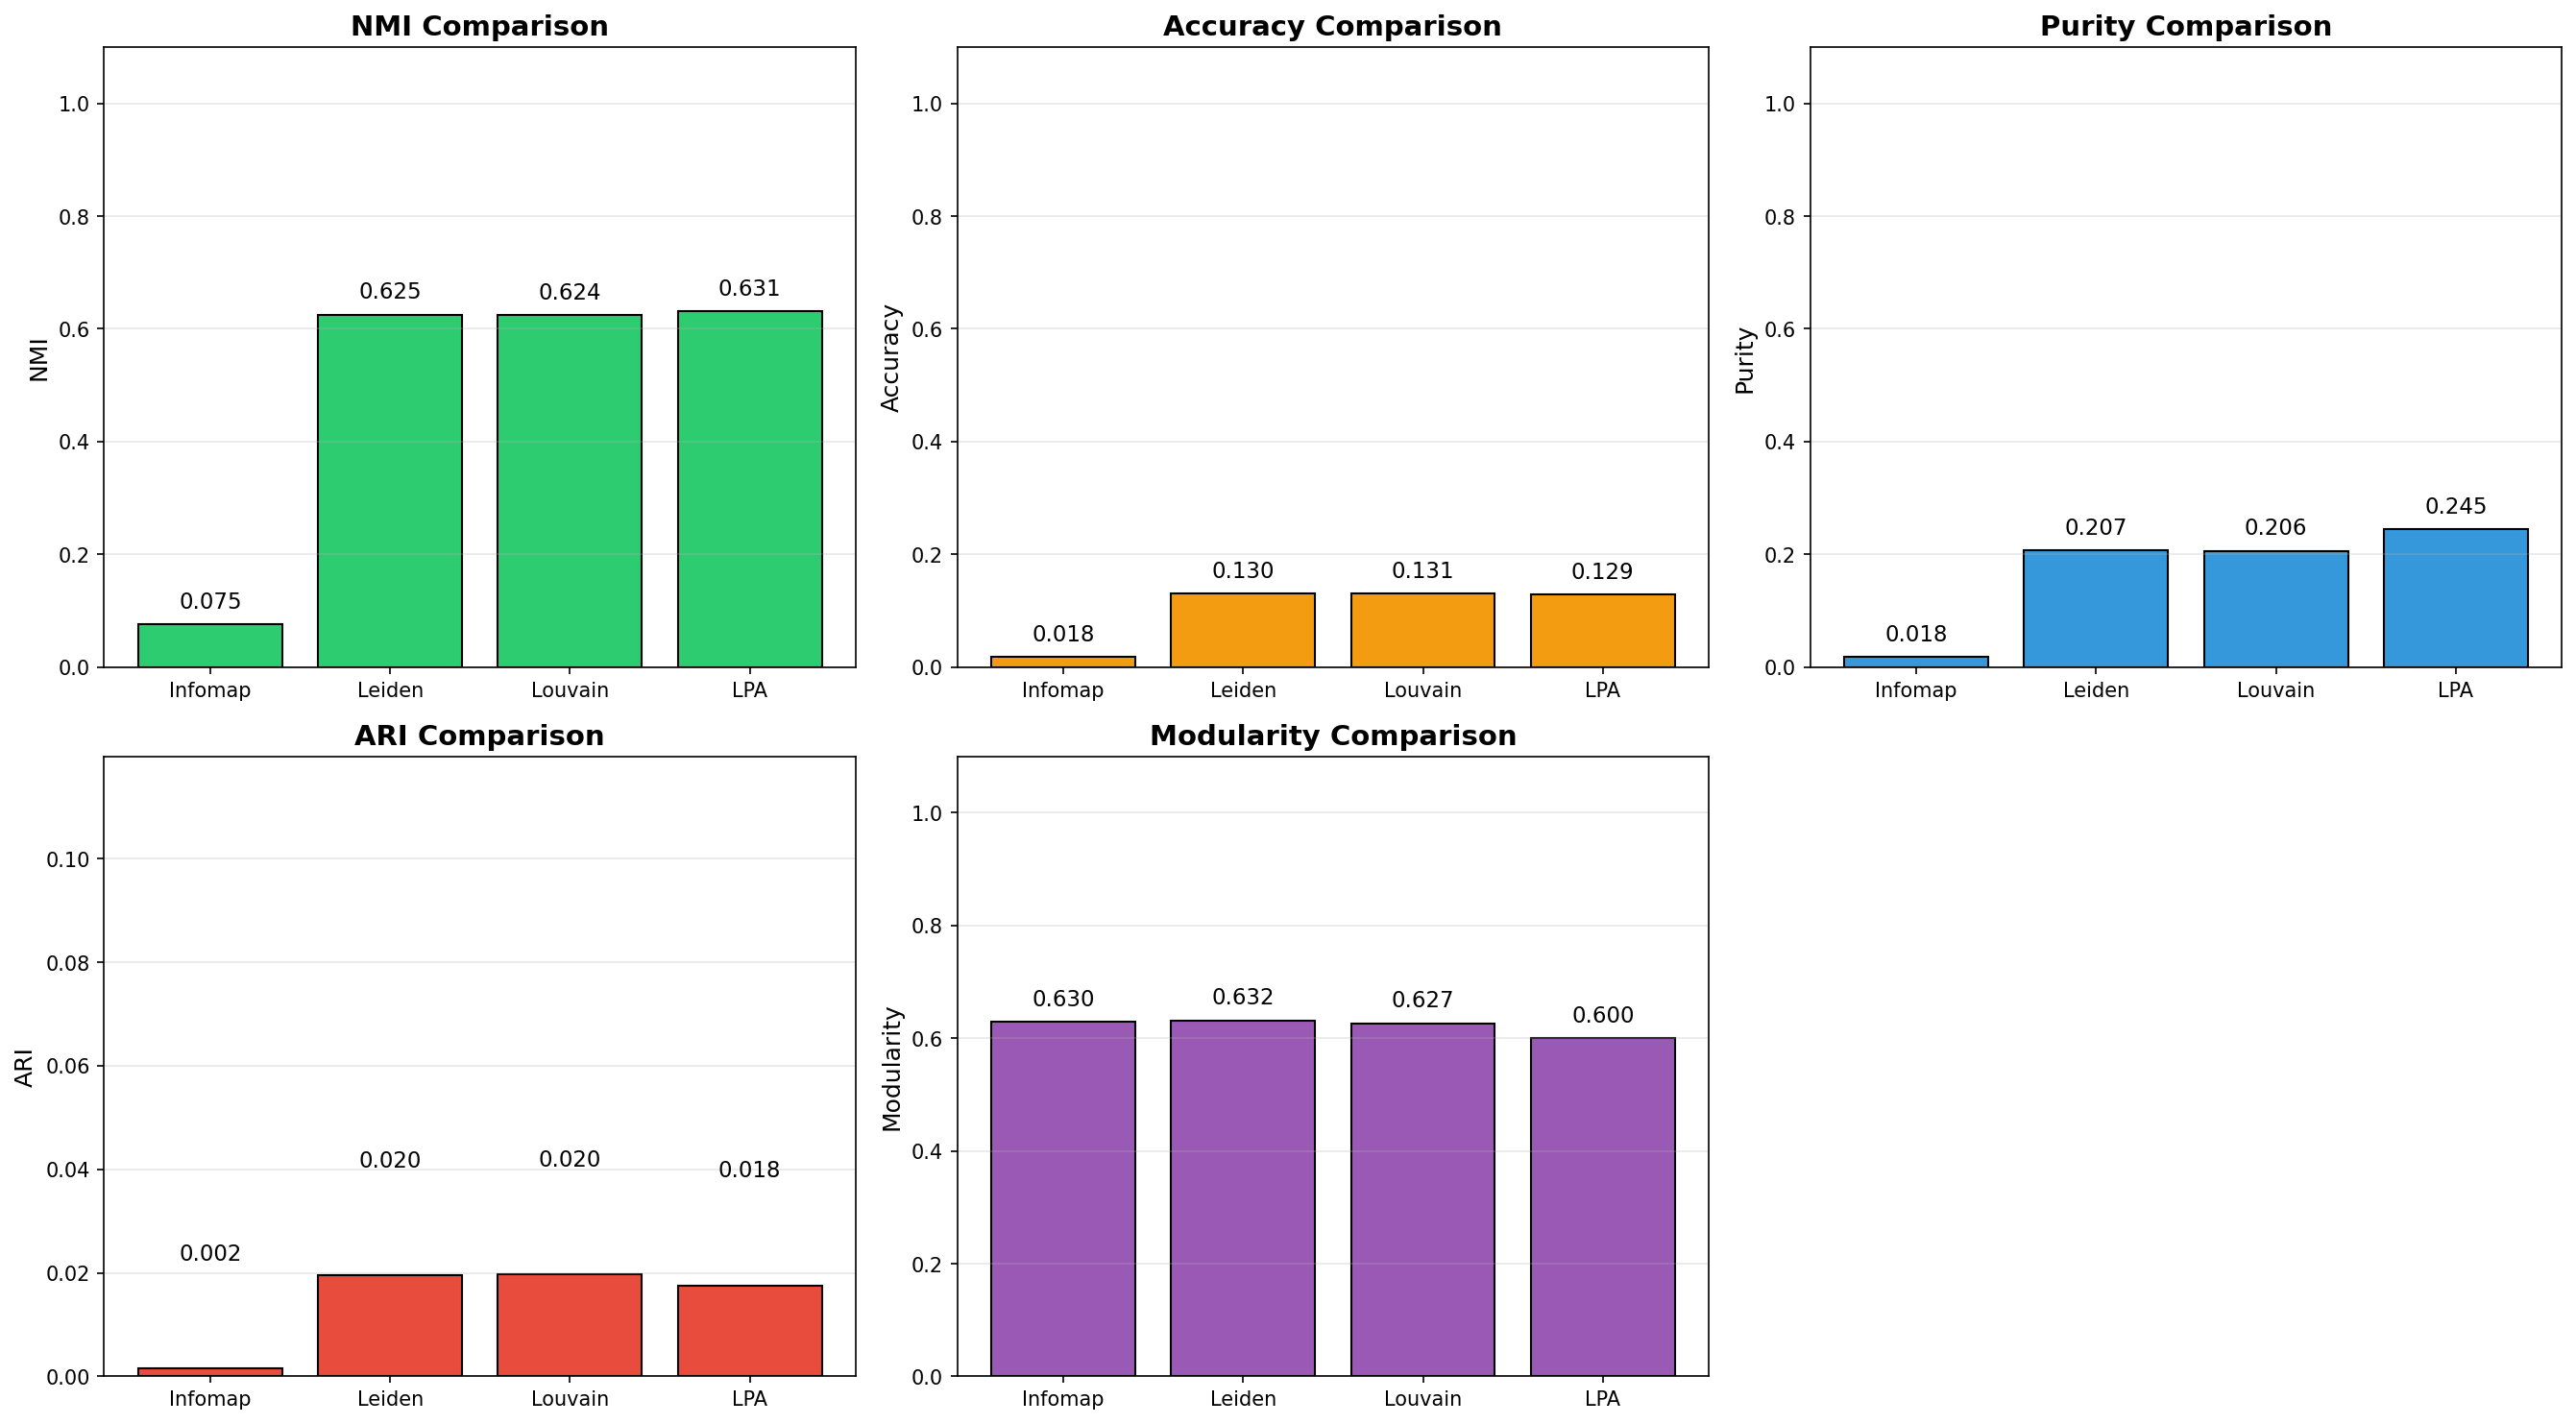
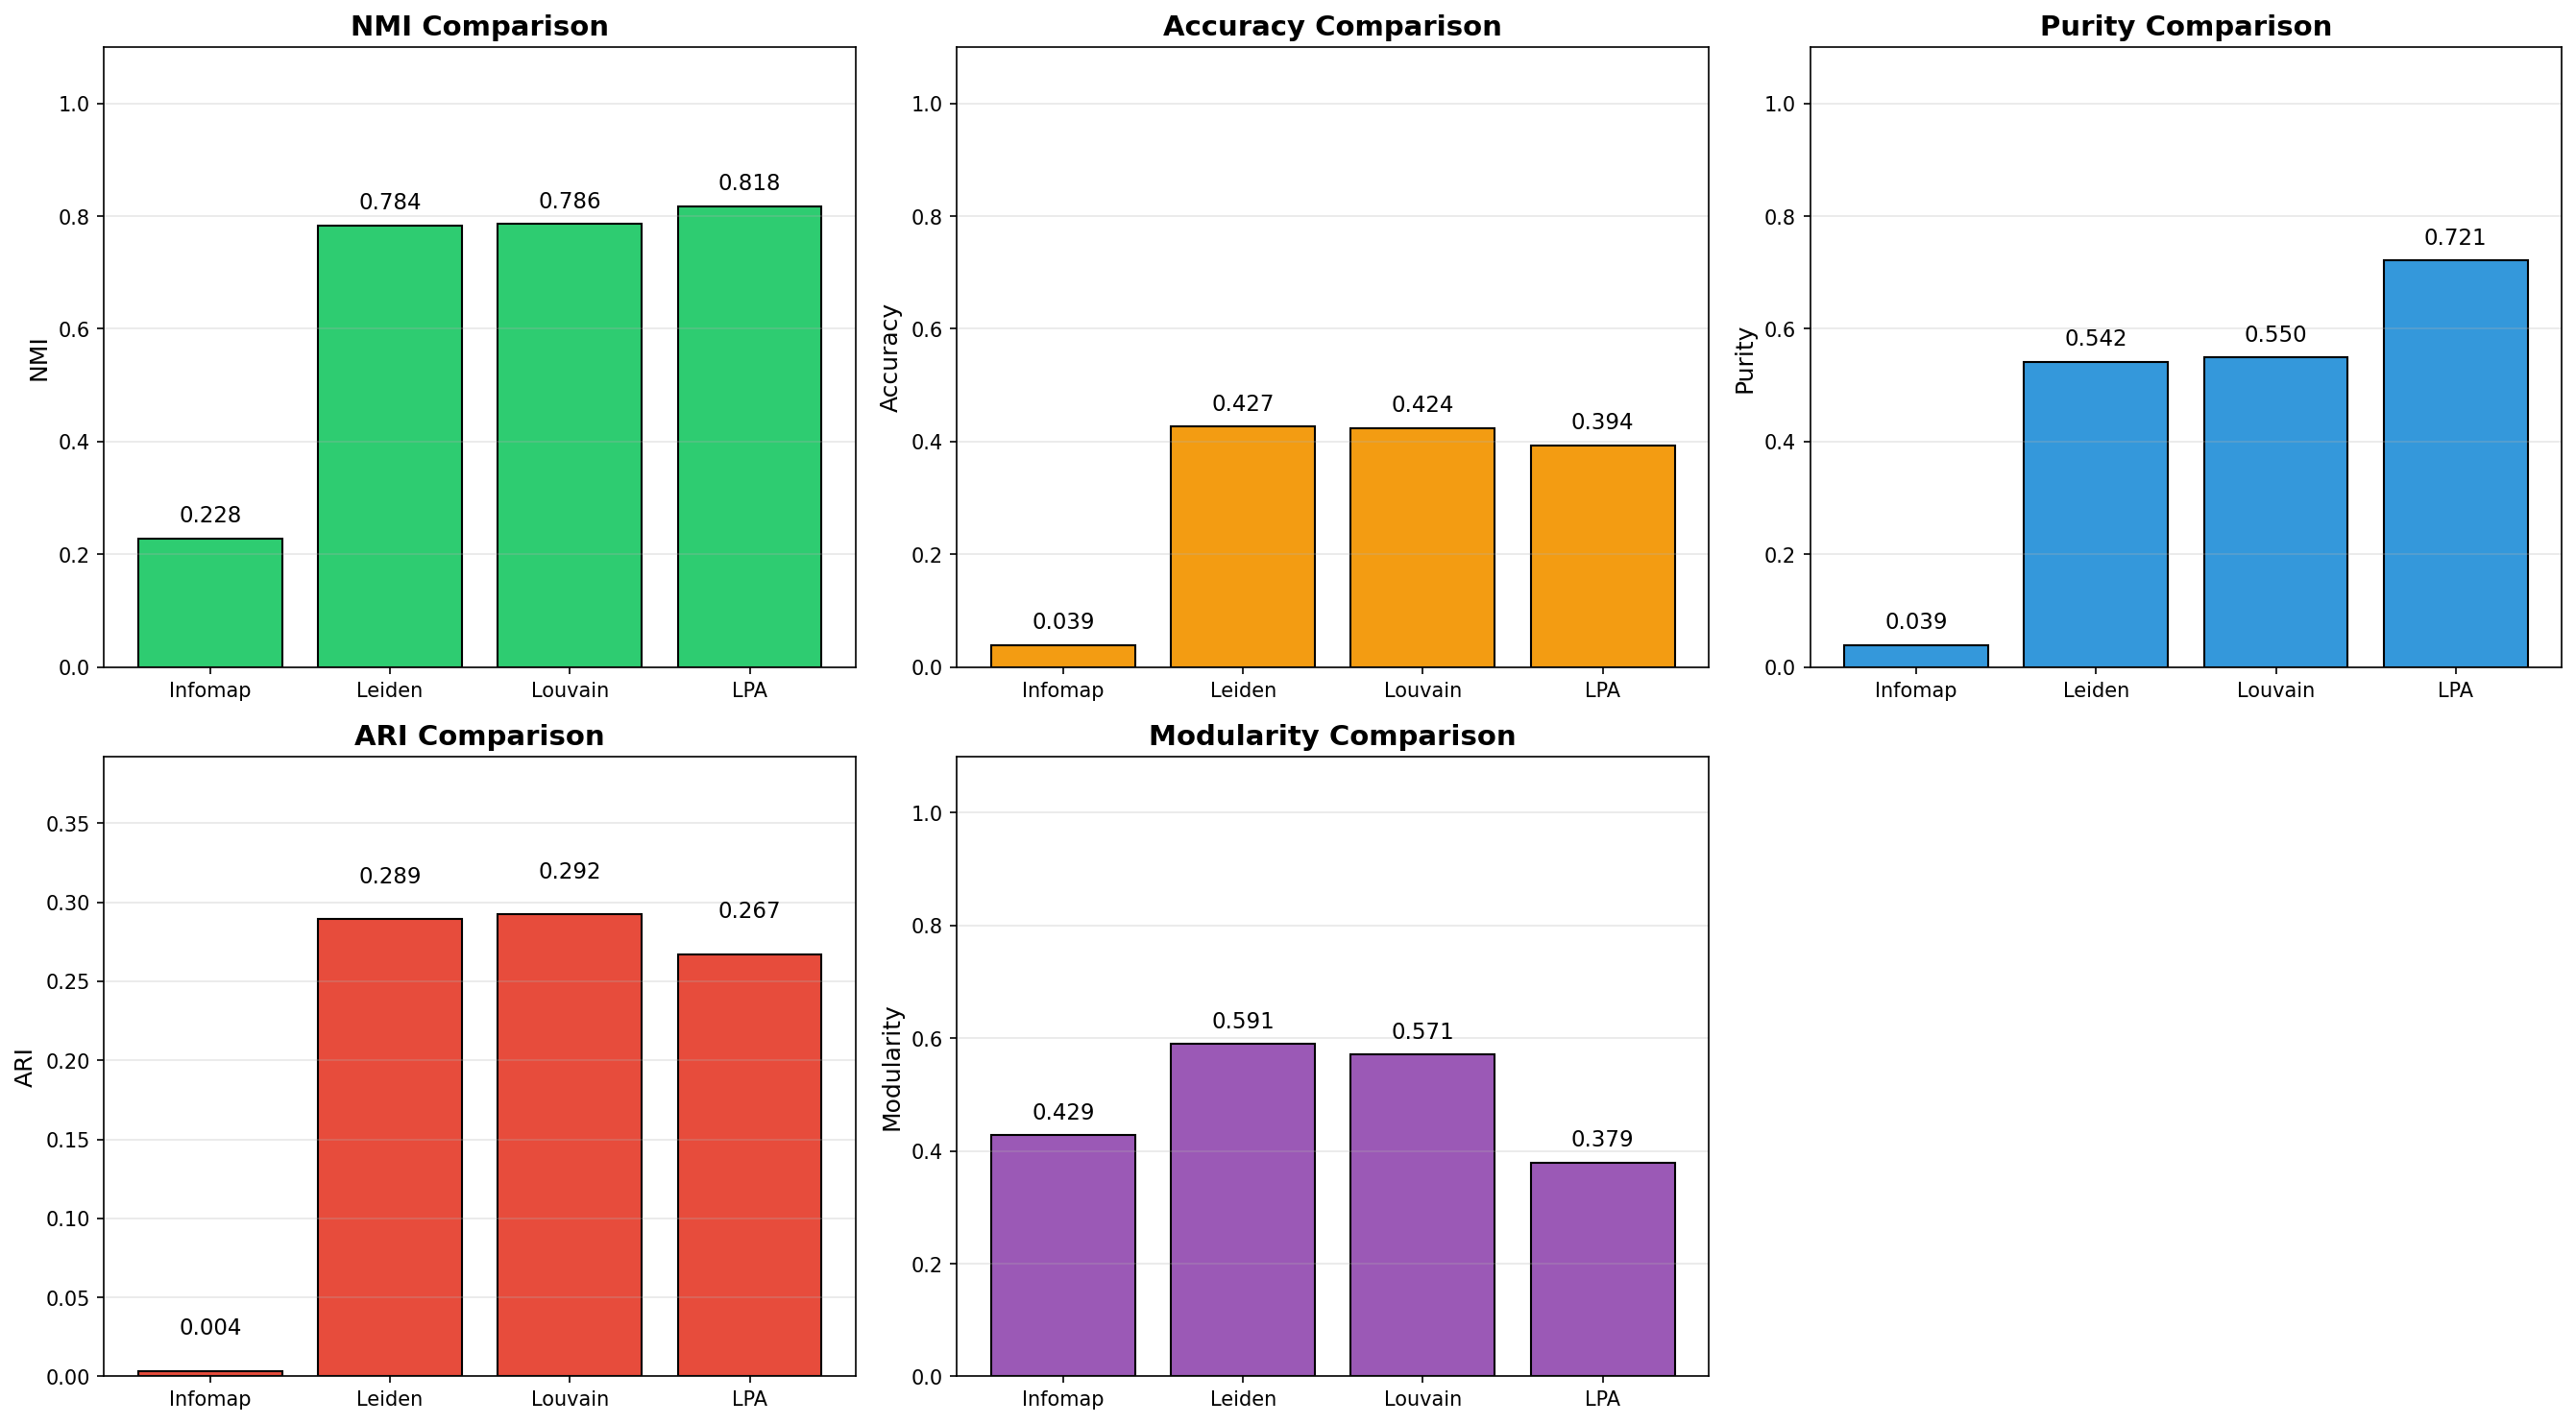
Update new model + tuning + new output

diff --git a/main.py b/main.py
@@ -197,10 +197,41 @@ def main(
         key=lambda x: evaluation_results[x]['NMI']
     )
     print(f"\nVisualizing clusters from best algorithm: {best_algo}")
-    if images is not None:
-        visualize_clusters(images, clustering_results[best_algo])
+
+    viz_images = images
+    cluster_pick_mode = 'largest'
+
+    if viz_images is None and use_feature_cache:
+        print(
+            "Đang tải lại ảnh từ parquet để vẽ clusters.png "
+            "(cùng sample_size và DATA_PATH với lúc tạo cache)..."
+        )
+        try:
+            df_viz = load_data(sample_size=sample_size)
+            viz_images, _, _ = extract_images_and_labels(df_viz, return_multilabel=True)
+            if len(viz_images) != len(features):
+                print(
+                    f"[WARN] len(images)={len(viz_images)} != len(features)={len(features)}. "
+                    "Bỏ qua clusters.png — kiểm tra --sample và DATA_PATH khớp file cache."
+                )
+                viz_images = None
+            else:
+                cluster_pick_mode = 'random'
+        except FileNotFoundError as exc:
+            print(f"[WARN] Không đọc được parquet để vẽ clusters.png: {exc}")
+            viz_images = None
+
+    if viz_images is not None:
+        visualize_clusters(
+            viz_images,
+            clustering_results[best_algo],
+            cluster_pick=cluster_pick_mode,
+        )
     else:
-        print("Skip cluster image visualization vì đang chạy từ cache (không có image bytes).")
+        print(
+            "Skip cluster image visualization "
+            "(không có bytes ảnh hoặc parquet không khớp cache)."
+        )
     
     # =========================================================
     # LOGGING KẾT QUẢ VÀO CSV

diff --git a/src/utils/visualization.py b/src/utils/visualization.py
@@ -107,7 +107,14 @@ def plot_radar_chart(results, save_path=None):
     print(f"Saved radar chart to {save_path}")
 
 
-def visualize_clusters(images, labels, n_samples=5, n_clusters=10, save_path=None):
+def visualize_clusters(
+    images,
+    labels,
+    n_samples=5,
+    n_clusters=10,
+    save_path=None,
+    cluster_pick='largest',
+):
     """
     Hiển thị mẫu ảnh từ mỗi cluster
     
@@ -117,6 +124,7 @@ def visualize_clusters(images, labels, n_samples=5, n_clusters=10, save_path=Non
         n_samples: Số ảnh mỗi cluster
         n_clusters: Số cluster tối đa hiển thị
         save_path: Đường dẫn lưu file
+        cluster_pick: 'largest' — các cluster đông nhất trước; 'random' — chọn ngẫu nhiên (seed RANDOM_STATE)
     """
     ensure_results_dir()
     
@@ -124,16 +132,21 @@ def visualize_clusters(images, labels, n_samples=5, n_clusters=10, save_path=Non
         save_path = os.path.join(config.RESULTS_PATH, 'clusters.png')
     
     unique_labels = np.unique(labels)
-    n_clusters = min(len(unique_labels), n_clusters)
+    k = min(len(unique_labels), n_clusters)
+
+    if cluster_pick == 'random':
+        rng = np.random.RandomState(config.RANDOM_STATE)
+        top_clusters = list(rng.choice(unique_labels, size=k, replace=False))
+        title_scope = f'Random {k} Clusters'
+    else:
+        cluster_sizes = [(c, np.sum(labels == c)) for c in unique_labels]
+        cluster_sizes.sort(key=lambda x: x[1], reverse=True)
+        top_clusters = [c[0] for c in cluster_sizes[:k]]
+        title_scope = f'Top {k} Clusters'
     
-    # Sắp xếp theo kích thước cluster (lớn nhất trước)
-    cluster_sizes = [(c, np.sum(labels == c)) for c in unique_labels]
-    cluster_sizes.sort(key=lambda x: x[1], reverse=True)
-    top_clusters = [c[0] for c in cluster_sizes[:n_clusters]]
+    fig, axes = plt.subplots(k, n_samples, figsize=(3*n_samples, 3*k))
     
-    fig, axes = plt.subplots(n_clusters, n_samples, figsize=(3*n_samples, 3*n_clusters))
-    
-    if n_clusters == 1:
+    if k == 1:
         axes = axes.reshape(1, -1)
     
     for i, cluster_id in enumerate(top_clusters):
@@ -158,7 +171,7 @@ def visualize_clusters(images, labels, n_samples=5, n_clusters=10, save_path=Non
         axes[i, 0].set_title(f'Cluster {cluster_id}\n(n={cluster_size})', 
                             fontsize=10, loc='left')
     
-    plt.suptitle(f'Sample Images from Top {n_clusters} Clusters', 
+    plt.suptitle(f'Sample Images from {title_scope}',
                 fontsize=14, fontweight='bold', y=1.02)
     plt.tight_layout()
     plt.savefig(save_path, dpi=150, bbox_inches='tight')

diff --git a/src/config.py b/src/config.py
@@ -4,11 +4,11 @@ class Config:
     DATA_PATH = 'data'
     RESULTS_PATH = 'results'
     
-    MODEL_NAME = 'dinov2_vitb14'  # dinov2_vits14, dinov2_vitb14, dinov2_vitl14, efficientnet_v2_l
+    MODEL_NAME = 'dinov2_vitl14'  # dinov2_vits14, dinov2_vitb14, dinov2_vitl14, efficientnet_v2_l
     BATCH_SIZE = 8
     DEVICE = 'cuda' if torch.cuda.is_available() else 'cpu'
 
-    K_NEIGHBORS = 20
+    K_NEIGHBORS = 30
     SIMILARITY_METRIC = 'cosine'
     MUTUAL_KNN = True
     SIM_POWER = 4.0
@@ -20,8 +20,8 @@ class Config:
     USE_PCA_WHITEN = True
     PCA_DIM = 256
 
-    LEIDEN_RESOLUTION = 5.0
-    LOUVAIN_RESOLUTION = 5.0
+    LEIDEN_RESOLUTION = 40.0
+    LOUVAIN_RESOLUTION = 46.0
 
     SAMPLE_SIZE = None
     RANDOM_STATE = 42

diff --git a/tune_params.py b/tune_params.py
@@ -467,7 +467,7 @@ def main():
         type=str,
         default=None,
         choices=["efficientnet_v2_l", "efficientnet_v2_m", "efficientnet_v2_s",
-                 "efficientnet_b7", "resnet50", "dinov2_vits14"],
+                 "efficientnet_b7", "resnet50", "dinov2_vits14", "dinov2_vitb14", "dinov2_vitl14"],
         help="Tên model để tự resolve cache path và output CSV. "
              "Nếu cung cấp, --cache-path và --output sẽ được tự động đặt theo model.",
     )